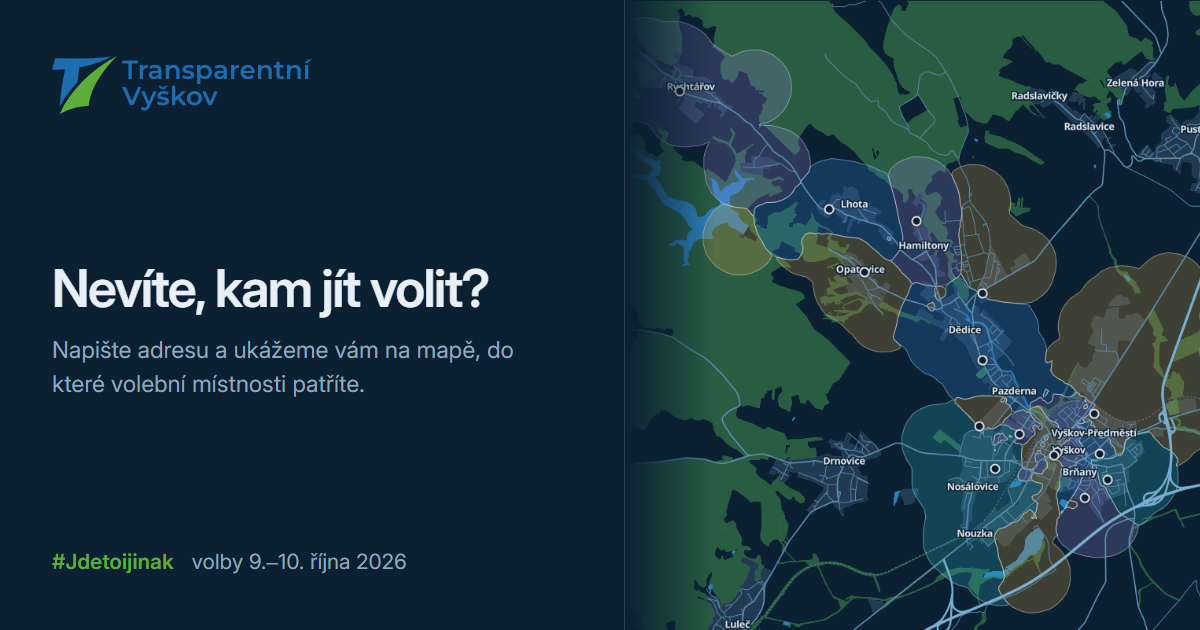
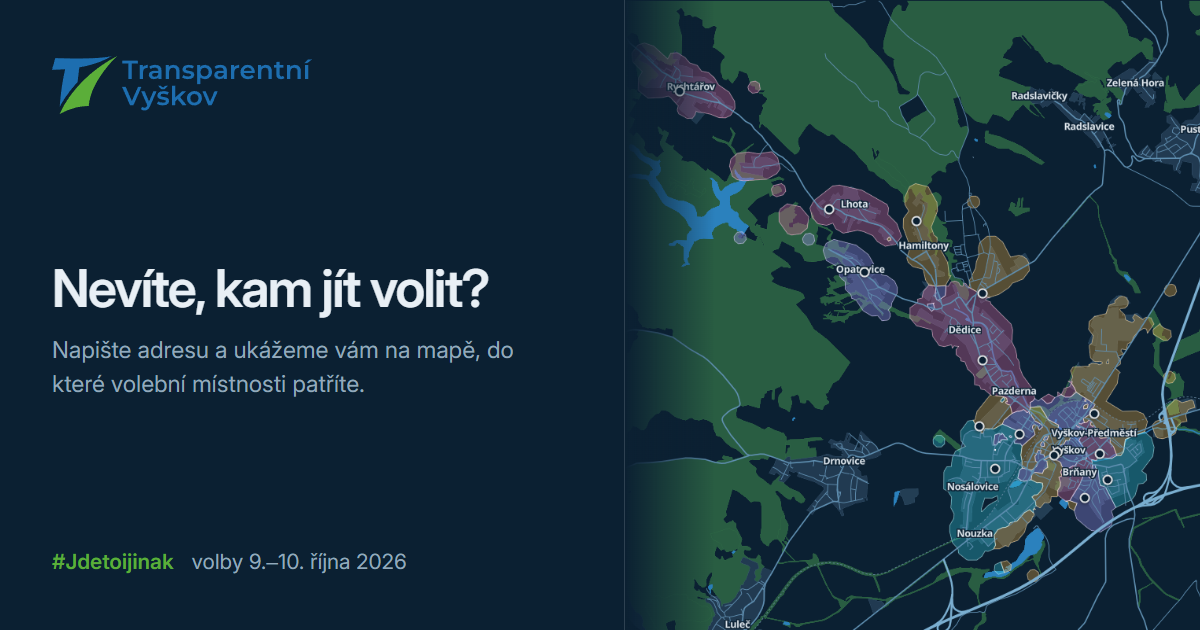
Kategorie na mapach maji barvy, ktere se daji rozlisit
Osm programovych oblasti melo jen odstiny modre a zelene z loga. Vypadalo
to klidne, jenze na mape zameru z toho byla kolecka "modre a zelene"
a kategorii podle nich poznat neslo. Dve z nich byly navic tak tmave, ze na
tmave mape zanikly uplne.

Paleta je sirsi, ale ne libovolna: modra a zelena ze znacky zustavaji
pateri a zbytek jsou tytez odstiny, jakymi se rozlisuji volebni oblasti.
Web tak ma jednu sadu barev, ne dve. Nejvyraznejsi odstiny dostala temata,
ktera maji zamery na mape - tam se barvy potkavaji vedle sebe.

Na mape "kde volit" nahradila cervenou ruzova. Vyzkousena byla i limetkova,
ale ta splyvala s lesy i s vybranou oblasti.

Nahled mapy zameru je vic priblizeny - mapa se sama nastavi tak, aby se
veslo vsech patnact bodu i s rezervou, a na nahledu velikosti palce z toho
byl maly flicek.

Nahledy map i karty pro sdileni jsou pregenerovane.

Changed region(s): [[0.555, 0.0302, 1.0, 0.9952]]

diff --git a/src/lib/temata.ts b/src/lib/temata.ts
@@ -20,17 +20,31 @@ export const TEMATA = [
 
 export type Tema = (typeof TEMATA)[number];
 
-/** Barva, kterou se téma značí na mapě a ve štítcích. Odstíny modré a zelené
-    z loga — nic mimo značkovou paletu, jinak se web rozsype do duhy. */
+/**
+ * Barva, kterou se téma značí na mapě a ve štítcích.
+ *
+ * Původně to byly jen odstíny modré a zelené z loga. Vypadalo to klidně,
+ * jenže osm oblastí se do dvou barev nevejde: na mapě záměrů z toho byla
+ * kolečka „modré a zelené" a poznat podle nich kategorii nešlo. Dvě z nich
+ * byly navíc tak tmavé, že na tmavé mapě zanikly úplně.
+ *
+ * Paleta je proto širší, ale ne libovolná — modrá a zelená ze značky zůstávají
+ * páteří a zbytek jsou tytéž odstíny, jakými se na mapě „kde volit" rozlišují
+ * volební oblasti. Web tak má jednu sadu barev, ne dvě.
+ *
+ * Nejvýraznější odstíny dostala témata, která mají záměry na mapě — tam se
+ * barvy potkávají vedle sebe a musí jít rozlišit. Hospodaření a školství
+ * zatím žádný záměr nemají, takže je vidět jen na dlaždicích programu.
+ */
 export const BARVA_TEMATU: Record<Tema, string> = {
   'Hospodaření': '#1d6eb0',
-  'Bydlení': '#2b8ac9',
+  'Bydlení': '#e8a83c',
   'Zeleň a voda': '#5bae39',
-  'Doprava': '#0e4d80',
-  'Školství': '#3f9bd4',
-  'Kultura': '#7cc45f',
-  'Podnikání': '#145286',
-  'Bezpečnost': '#4a9e7e',
+  'Doprava': '#2b8ac9',
+  'Školství': '#e07ba2',
+  'Kultura': '#a08ff0',
+  'Podnikání': '#2ec6d8',
+  'Bezpečnost': '#b7cf3e',
 };
 
 /** Adresní tvar tématu pro filtrování přes URL: „Zeleň a voda" → „zelen-a-voda" */

diff --git a/src/styles/tokeny.css b/src/styles/tokeny.css
@@ -118,13 +118,16 @@
 
      A modrá tu není vůbec. Mapa je sama modrá — pozadí, voda i silnice —,
      takže modrá plocha v ní zanikne, ať je jakkoliv světlá. Vyzkoušeno.
-     Tyrkysová projde, ta je dost do zelena, aby se od vody odlišila. */
-  --mapa-oblast-1: #f2795c;
+     Tyrkysová projde, ta je dost do zelena, aby se od vody odlišila.
+
+     Zelená a limetková tu nejsou taky — první je vyhrazená vybrané oblasti
+     a obě splývají s lesy. Červená se zkoušela a na mapě vypadala špatně. */
+  --mapa-oblast-1: #e0679f;
   --mapa-oblast-2: #e8a83c;
   --mapa-oblast-3: #a08ff0;
   --mapa-oblast-4: #2ec6d8;
-  --mapa-oblast-5: #e07ba2;
-  --mapa-oblast-6: #c2a38a;
+  --mapa-oblast-5: #c2a38a;
+  --mapa-oblast-6: #b9a99b;
 
   --varovani: #b3261e;     /* neplatný lístek, chybové stavy */
   --navrh: #a05a00;        /* označení „návrh — k ověření" */
